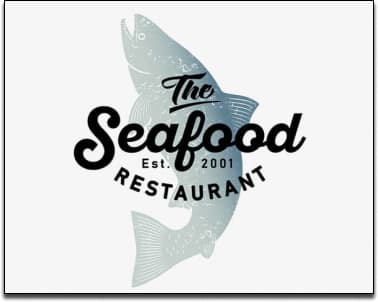
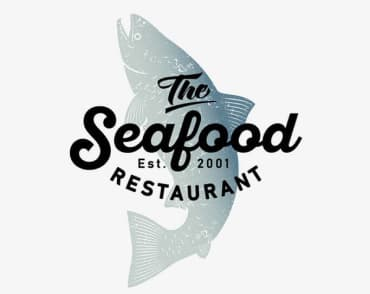
Попрацював частково з стилями шрифтів

diff --git a/styles/styles.css b/styles/styles.css
@@ -12,6 +12,8 @@
 .page {
   background-color: #f5f5f5;
   color: var(--primary-text-color);
+
+  font-family: Roboto, sans-serif;
 }
 
 .upper-line {
@@ -19,6 +21,12 @@
 }
 .logo {
   color: #000000;
+
+  font-family: Raleway, sans-serif;
+  font-weight: 700;
+  font-size: 26px;
+  line-height: 1.19px;
+  letter-spacing: 0.03em;
 }
 .logo-web {
   color: #2196f3;
@@ -30,6 +38,11 @@
 
 .site-nav .link {
   color: var(--title-text-color);
+
+  font-weight: 500;
+  font-size: 14px;
+  line-height: 1.14px;
+  letter-spacing: 0.02em;
 }
 .site-nav .link:hover,
 .site-nav .link:focus {
@@ -47,34 +60,87 @@
   color: var(--acent);
 }
 /* Стилі для index.html*/
+
 /* Section */
 
 .section-title {
   color: var(--title-text-color);
+
+  font-weight: 700;
+  font-size: 36px;
+  line-height: 1.17px;
+  text-align: center;
+  letter-spacing: 0.03em;
 }
 /* Section cap */
-.section-cap {
+.hero {
   background-color: #2f303a;
 }
-.section-cap .title {
+.hero-title {
   color: #ffffff;
+
+  font-weight: 900;
+  font-size: 44px;
+  line-height: 1.36px;
+  text-align: center;
+  letter-spacing: 0.06em;
+  text-transform: uppercase;
 }
-.section-cap .button {
+
+.button {
+  font-family: inherit;
+}
+
+.hero .button {
   background-color: #2196f3;
   color: #ffffff;
   box-shadow: 0px 4px 4px rgba(0, 0, 0, 0.15);
   border-radius: 4px;
+  border-style: none;
+
+  font-weight: 700;
+  font-size: 16px;
+  line-height: 1.88px;
+  display: flex;
+  align-items: center;
+  text-align: center;
+  letter-spacing: 0.06em;
 }
-.section-cap .button:hover,
-.section-cap .button:active {
+.hero .button:hover,
+.hero .button:active {
   background: #188ce8;
   box-shadow: 0px 4px 4px rgba(0, 0, 0, 0.15);
   border-radius: 4px;
 }
 /* Features */
 
-.features .title {
+.features-title .title {
   color: var(--title-text-color);
+
+  font-weight: 700;
+  font-size: 14px;
+  line-height: 1.14px;
+  letter-spacing: 0.03em;
+  text-transform: uppercase;
+}
+
+.features p {
+  font-weight: 400;
+  font-size: 14px;
+  line-height: 1.71px;
+  letter-spacing: 0.03em;
+}
+
+/* What we do */
+
+.working-title {
+  color: var(--title-text-color);
+
+  font-weight: 700;
+  font-size: 36px;
+  line-height: 1.17px;
+  text-align: center;
+  letter-spacing: 0.03em;
 }
 
 /* Our team */
@@ -84,12 +150,24 @@
 }
 .team h3 {
   color: var(--title-text-color);
+
+  font-weight: 500;
+  font-size: 16px;
+  line-height: 1.19px;
+  text-align: center;
+  letter-spacing: 0.03em;
 }
 .team li {
   background-color: #ffffff;
   box-shadow: 0px 1px 3px rgba(0, 0, 0, 0.12), 0px 1px 1px rgba(0, 0, 0, 0.14),
     0px 2px 1px rgba(0, 0, 0, 0.2);
   border-radius: 0px 0px 4px 4px;
+
+  font-weight: 500;
+  font-size: 16px;
+  line-height: 1.19px;
+  text-align: center;
+  letter-spacing: 0.03em;
 }
 /* Footer */
 .footer {
@@ -100,21 +178,48 @@
 }
 .footer-title a {
   color: rgba(255, 255, 255, 0.6);
+
+  font-weight: 400;
+  font-size: 14px;
+  line-height: 1.71px;
+  letter-spacing: 0.03em;
 }
 .address {
   color: #ffffff;
 }
 
 /* Стилі для portfolio.html */
-/*.section-button  {
+
+/* Фільтр */
+
+.section-button .btn {
   background: #f5f4fa;
   color: #212121;
+  border-style: none;
 }
-.section-button :hover,
-.section-button :active {
+
+.section-button .btn:hover,
+.section-button .btn:active {
   background: #2196f3;
   color: #ffffff;
   box-shadow: 0px 3px 1px rgba(0, 0, 0, 0.1), 0px 1px 2px rgba(0, 0, 0, 0.08),
     0px 2px 2px rgba(0, 0, 0, 0.12);
   border-radius: 4px;
-}*/
+  border-style: none;
+}
+.section-button .btn.current {
+  background: #2196f3;
+  color: #ffffff;
+  box-shadow: 0px 3px 1px rgba(0, 0, 0, 0.1), 0px 1px 2px rgba(0, 0, 0, 0.08),
+    0px 2px 2px rgba(0, 0, 0, 0.12);
+  border-radius: 4px;
+}
+
+/* Проєкти */
+.project .title {
+  background: #ffffff;
+  border: 1px solid #eeeeee;
+}
+.project h3 {
+  color: #212121;
+}

diff --git a/portfolio.html b/portfolio.html
@@ -5,6 +5,10 @@
     <meta http-equiv="X-UA-Compatible" content="IE=edge" />
     <meta name="viewport" content="width=device-width, initial-scale=1.0" />
     <title>Document</title>
+    <link
+      href="https://fonts.googleapis.com/css2?family=Raleway:wght@700&family=Roboto:wght@400;500;700;900&display=swap"
+      rel="stylesheet"
+    />
     <link rel="stylesheet" href="styles/styles.css" />
   </head>
   <body class="page">
@@ -27,28 +31,28 @@
     <main>
       <!--Фільтри-->
       <section class="section-button">
-        <ul class="title list">
-          <li><button type="button">Усі</button></li>
-          <li><button type="button">Веб-сайти</button></li>
-          <li><button type="button">Додатки</button></li>
-          <li><button type="button">Дизайн</button></li>
-          <li><button type="button">Маркетинг</button></li>
+        <ul class="list">
+          <li><button type="button" class="btn current">Усі</button></li>
+          <li><button type="button" class="btn">Веб-сайти</button></li>
+          <li><button type="button" class="btn">Додатки</button></li>
+          <li><button type="button" class="btn">Дизайн</button></li>
+          <li><button type="button" class="btn">Маркетинг</button></li>
         </ul>
       </section>
       <!--Проєкти-->
-      <section>
-        <ul>
-          <li>
+      <section class="project">
+        <ul class="project-title list">
+          <li class="title">
             <img src="./images/FotoPortfolio1.jpg" alt="Ноутбук на сірому фоні" width="370" />
             <h3>Технокряк</h3>
             <p>Веб-сайт</p>
           </li>
-          <li>
+          <li class="title">
             <img src="./images/FotoPortfolio4.jpg" alt="Два гравці баскетболу" width="370" />
             <h3>Постер New Orlean vs Golden Star</h3>
             <p>Дизайн</p>
           </li>
-          <li>
+          <li class="title">
             <img
               src="./images/FotoPortfolio6.jpg"
               alt="Логотип ресторану у вигляді риби"
@@ -57,12 +61,12 @@
             <h3>Ресторан Seafood</h3>
             <p>Додаток</p>
           </li>
-          <li>
+          <li class="title">
             <img src="./images/FotoPortfolio8.jpg" alt="Наушники на сірому фоні" width="370" />
             <h3>Проєкт Prime</h3>
             <p>Маркетинг</p>
           </li>
-          <li>
+          <li class="title">
             <img
               src="./images/FotoPortfolio5.jpg"
               alt="Велика біла і маленька жовта коробки на сірому фоні"
@@ -71,22 +75,22 @@
             <h3>Проєкт Boxes</h3>
             <p>Додаток</p>
           </li>
-          <li>
+          <li class="title">
             <img src="./images/FotoPortfolio7.jpg" alt="IMac на сірому фоні" width="370" />
             <h3>Inspiration has no Borders</h3>
             <p>Веб-сайт</p>
           </li>
-          <li>
+          <li class="title">
             <img src="./images/FotoPortfolio9.jpg" alt="Відкритий журнал" width="370" />
             <h3>Видання Limited Edition</h3>
             <p>Дизайн</p>
           </li>
-          <li>
+          <li class="title">
             <img src="./images/FotoPortfolio3.jpg" alt="Бірка з надписом" width="370" />
             <h3>Проєкт LAB</h3>
             <p>Маркетинг</p>
           </li>
-          <li>
+          <li class="title">
             <img
               src="./images/FotoPortfolio2.jpg"
               alt="Руки на клавіатурі вілкритого ноутбука"

diff --git a/index.html b/index.html
@@ -5,6 +5,10 @@
     <meta http-equiv="X-UA-Compatible" content="IE=edge" />
     <meta name="viewport" content="width=device-width, initial-scale=1.0" />
     <title>Document</title>
+    <link
+      href="https://fonts.googleapis.com/css2?family=Raleway:wght@700&family=Roboto:wght@400;500;700;900&display=swap"
+      rel="stylesheet"
+    />
     <link rel="stylesheet" href="styles/styles.css" />
   </head>
   <body class="page">
@@ -27,14 +31,14 @@
     </header>
     <main>
       <!--Cap-->
-      <section class="section-cap">
-        <h1 class="title">Ефективні рішення для вашого бізнесу</h1>
+      <section class="hero">
+        <h1 class="hero-title">Ефективні рішення для вашого бізнесу</h1>
         <button type="button" class="button">Замовити послугу</button>
       </section>
       <!--Features-->
-      <section class="section">
+      <section class="features">
         <h2 class="visually-hidden section-title">Переваги</h2>
-        <ul class="features list">
+        <ul class="features-title list">
           <li>
             <h3 class="title">УВАГА ДО ДЕТАЛЕЙ</h3>
             <p>Ідейні міркування, і навіть початок повсякденної роботи з формування позиції.</p>
@@ -54,8 +58,8 @@
         </ul>
       </section>
       <!--What we do-->
-      <section class="section">
-        <h2 class="section-title">Чим ми займаємося</h2>
+      <section class="working">
+        <h2 class="working-title">Чим ми займаємося</h2>
         <ul class="list">
           <li>
             <img src="./images/box1.jpg" alt="Верстка сайтів" width="370" />
